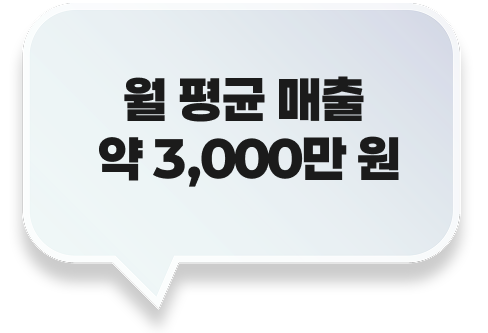
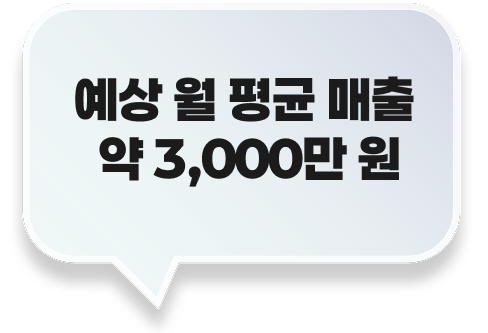
datePicker 수정, 수익계산기 수정, 문구 텍스트 몇가지 수정

diff --git a/app/main/05_CalcSection/client.tsx b/app/main/05_CalcSection/client.tsx
@@ -7,15 +7,16 @@ import NiceModal from "@ebay/nice-modal-react";
 import ConfirmModal from "@/component/modal/ConfirmModal/ConfirmModal";
 import { motion, AnimatePresence } from "framer-motion";
 import { useMediaQuery } from "react-responsive";
-
+import type { Variants } from "motion/react";
 import {
   animate,
   useMotionValue,
   useTransform,
   useMotionValueEvent,
 } from "motion/react";
-import type { Variants } from "motion/react";
 
+import { Bar } from "react-chartjs-2";
+import annotationPlugin from "chartjs-plugin-annotation";
 import {
   Chart as ChartJS,
   CategoryScale,
@@ -26,8 +27,7 @@ import {
   Legend,
   Filler,
 } from "chart.js";
-import { Bar } from "react-chartjs-2";
-import annotationPlugin from "chartjs-plugin-annotation";
+
 
 ChartJS.register(
   CategoryScale,
@@ -230,8 +230,35 @@ export function Caculator() {
       return;
     }
 
+    // 1. 예상 매출액이 3000만원 이상이면
+    // 실 매출액 = 3000만원의 30% + 초과분 1만원의 35% 
+
+    // 2. 매출액이 3000만원 미만이면
+    // 실 매출액 = 2999만원의 30%
+
+    // 순이익 = 실 매출액 - (월세 + 관리비 + 기타)
+    // 회수기간 개월수 = 1억5천(투자금) / 순이익
+
+
+    // 매출액 계산
+    let expectedSalesProfit = 0;
+    const cutlineProfit = 30000000; // 예상 월 매출
+
+    if(numbers.expectedSales > cutlineProfit) { // 3000만원 이상
+      const baseProfit = cutlineProfit * 0.3;
+      const excessProfit = (numbers.expectedSales - cutlineProfit) * 0.35;
+      expectedSalesProfit = baseProfit + excessProfit;
+      
+      // console.log('3000 이상',excessProfit);
+
+    } else if (numbers.expectedSales < cutlineProfit) { // 3000만원 미만
+
+      expectedSalesProfit = Math.floor(numbers.expectedSales * 0.3);
+      // console.log('3000 미만', expectedSalesProfit);
+    }
+
     const inputTotal =
-      numbers.expectedSales -
+      expectedSalesProfit -
       (numbers.rent + numbers.maintenance + numbers.extraCost);
 
     // 총 순이익
@@ -501,7 +528,7 @@ export function Caculator() {
                   transition={{ duration: 0.5 }}
                 >
                   <span className="paperLogy">
-                    월 순이익 추정치 : <b>{formatCurrency(total)}</b>
+                    예상 월 순이익 추정치 : <b>{formatCurrency(total)}</b>
                   </span>
                 </motion.div>
               </AnimatePresence>
@@ -614,7 +641,7 @@ const RecoveryChart = ({ chartDatas, inputTotal, amount }: Props) => {
         grid: { color: "#333" },
         ticks: {
           color: "#ccc",
-          // 단위 포맷팅 (예: 1.2억, 9000...)
+          // 단위 포맷팅 (예: 1.5억, 9000...)
           callback: (val: any) => {
             if (val >= 100000000) return (val / 100000000).toFixed(1) + "억";
             return val.toLocaleString();

diff --git a/app/main/07_ContactSection/ContactSection.module.scss b/app/main/07_ContactSection/ContactSection.module.scss
@@ -279,7 +279,24 @@
    padding: 10px;
 
    :global(.react-datepicker-popper) { // datePicker 위치 조정
-      left: -25px !important;
+      left: 50% !important;
+      top: 50% !important;
+      transform: translate(-50%, -50%) !important;
+      will-change: unset !important;
+   }
+
+   :global(.react-datepicker__triangle) { // 꽁다리 삼각형 제거
+      display: none !important;
+   }
+
+   @media (max-width: 992px) {
+      // 미니폼 내부에서 datePicker가 fixed 먹혀버려서 이렇게 변경
+      :global(.react-datepicker__portal) {
+         top: 50%;
+         transform: translateY(-50%);
+         height: auto;
+         background: transparent;
+      }
    }
 
    &::-webkit-scrollbar {

diff --git a/app/main/01_HeroSection/HeroSection.module.scss b/app/main/01_HeroSection/HeroSection.module.scss
@@ -71,11 +71,11 @@
                            &::before {
                               content:'';
                               position: absolute;
-                              top: -62%;
-                              right: -60%;
+                              top: -30%;
+                              right: -20%;
                               background: url('/img/deco_light.png') no-repeat center / cover;
-                              width: 1.7777em;
-                              height: 1.8666em;
+                              width: 0.7777em; // 35px;
+                              height: 0.7777em; // 35px;
                            }
                         }
                      }

diff --git a/app/main/02_WhyUsSection/WhyUsSection.module.scss b/app/main/02_WhyUsSection/WhyUsSection.module.scss
@@ -52,11 +52,11 @@
       &::before {
          content:'';
          position: absolute;
-         top: -35%;
-         right: -24%;
+         top: -14%;
+         right: -5%;
          background: url('/img/deco_light.png') no-repeat center / cover;
-         width: 1.33333em;
-         height: 1.41666em;
+         width: 0.58333em; // 35px
+         height: 0.58333em; // 35px
       }
    }
 }
